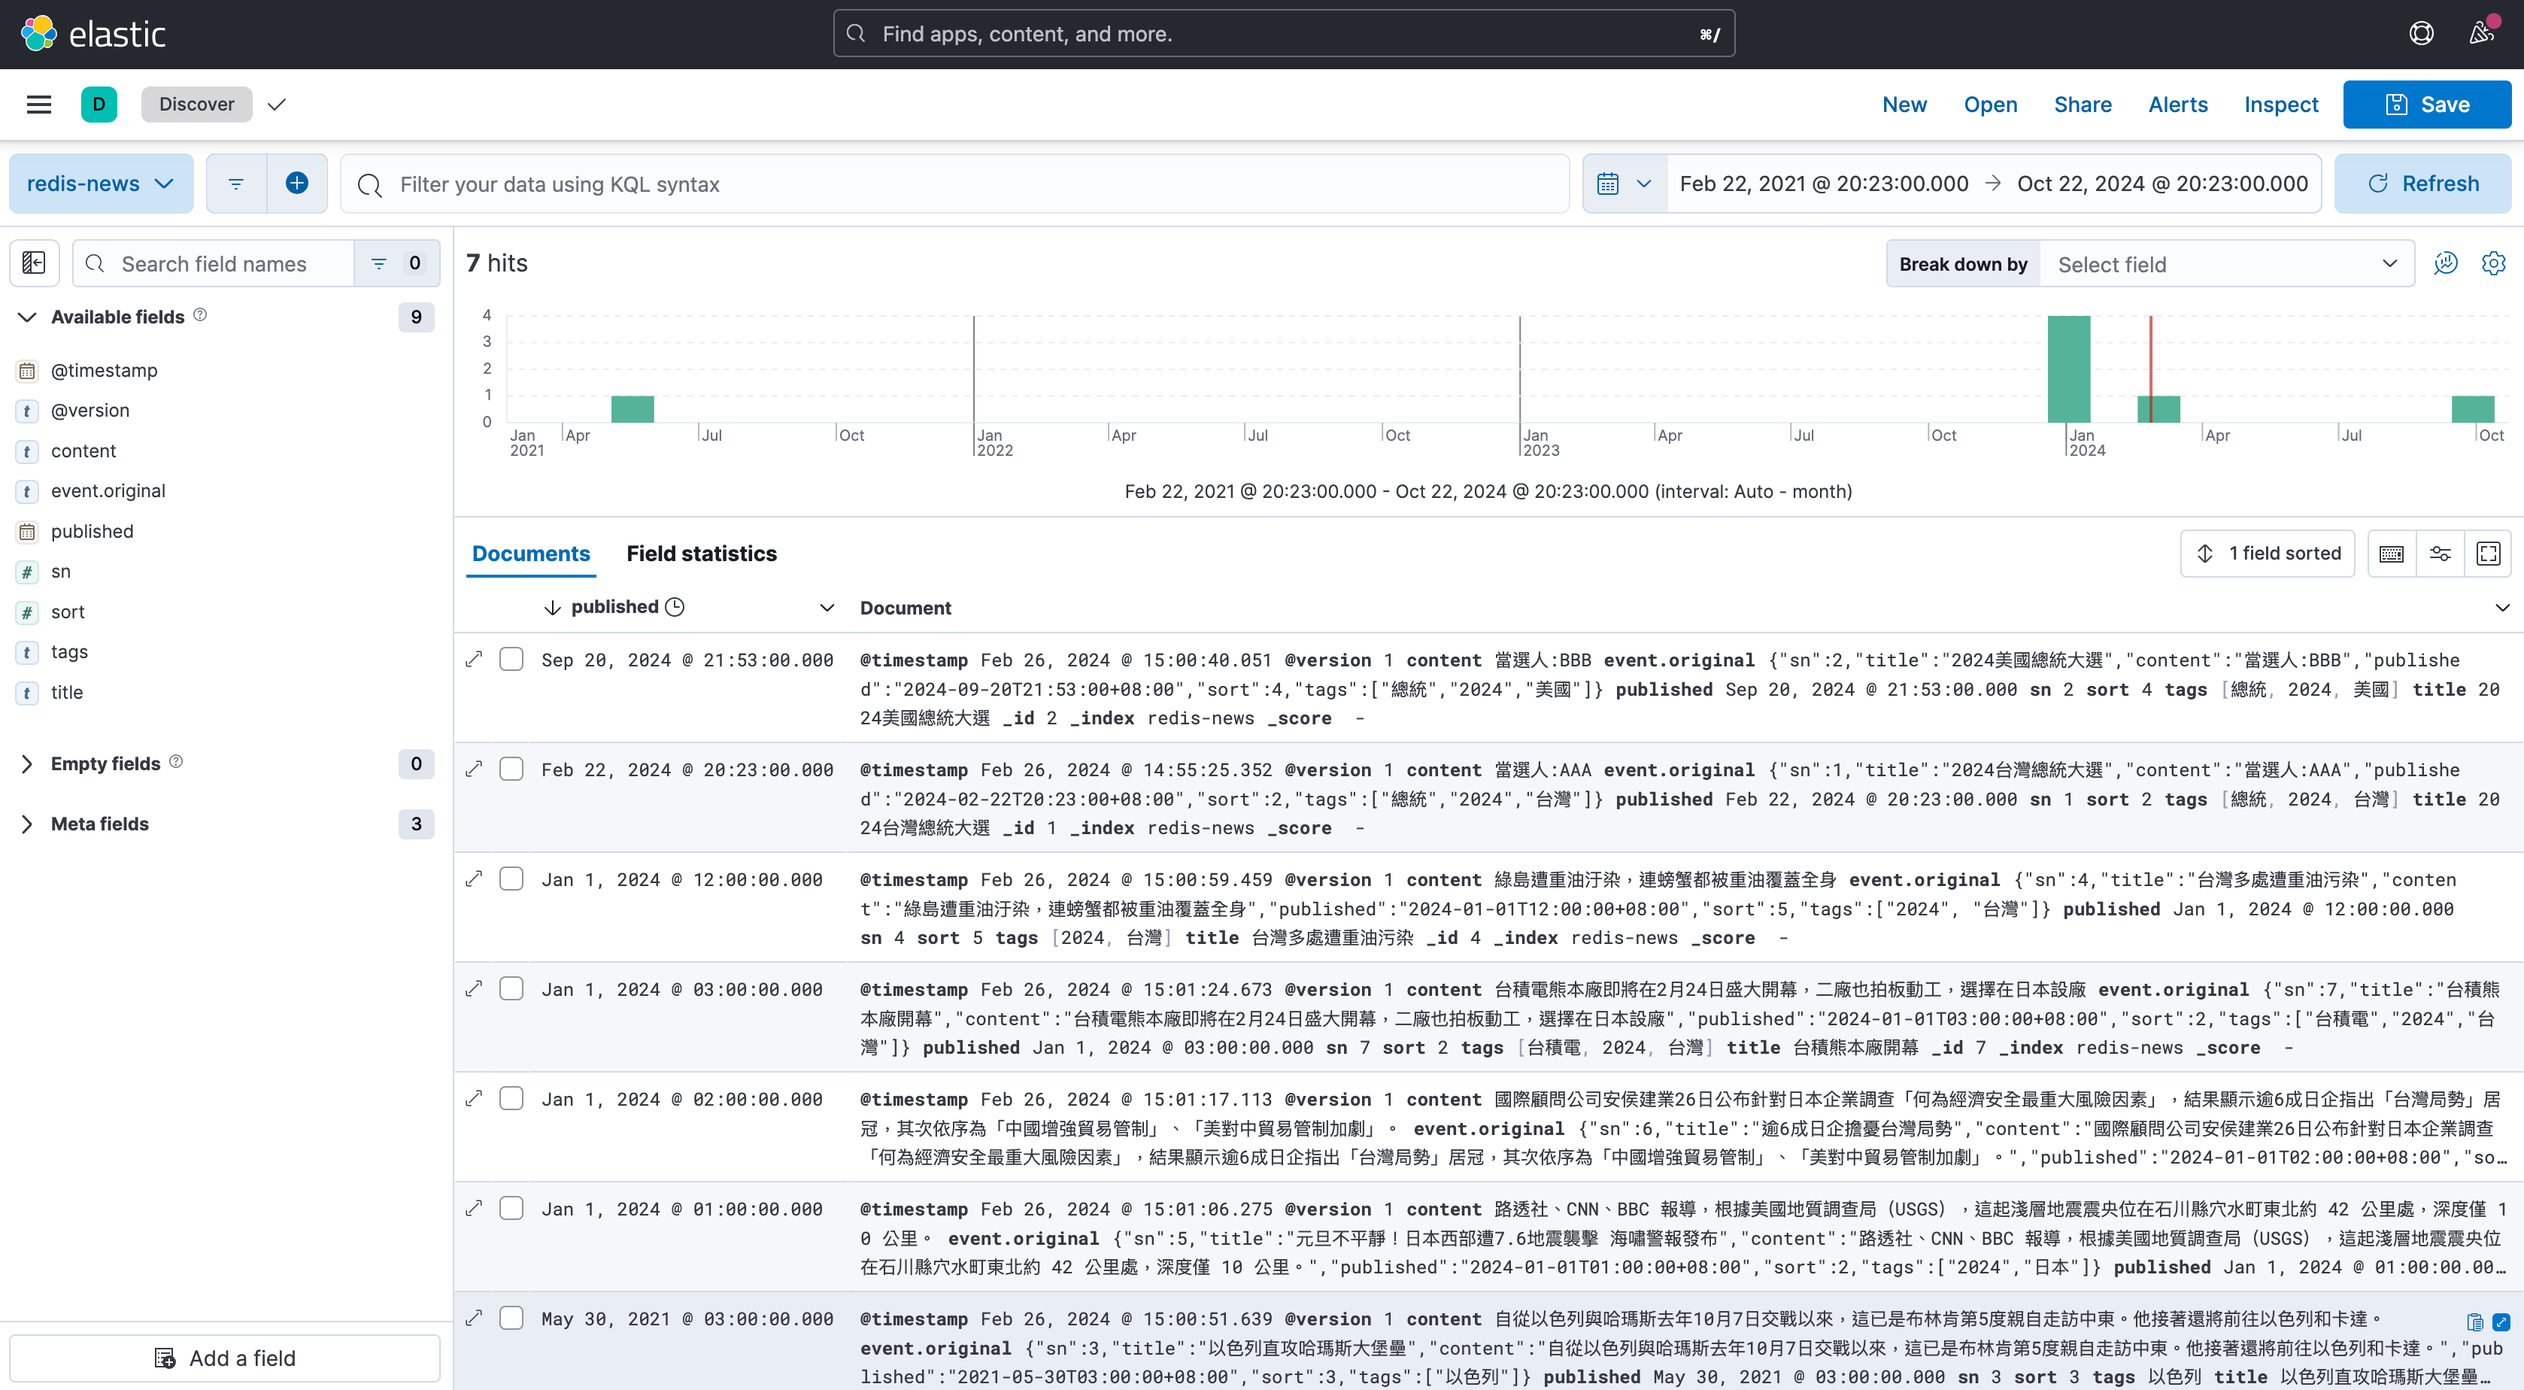
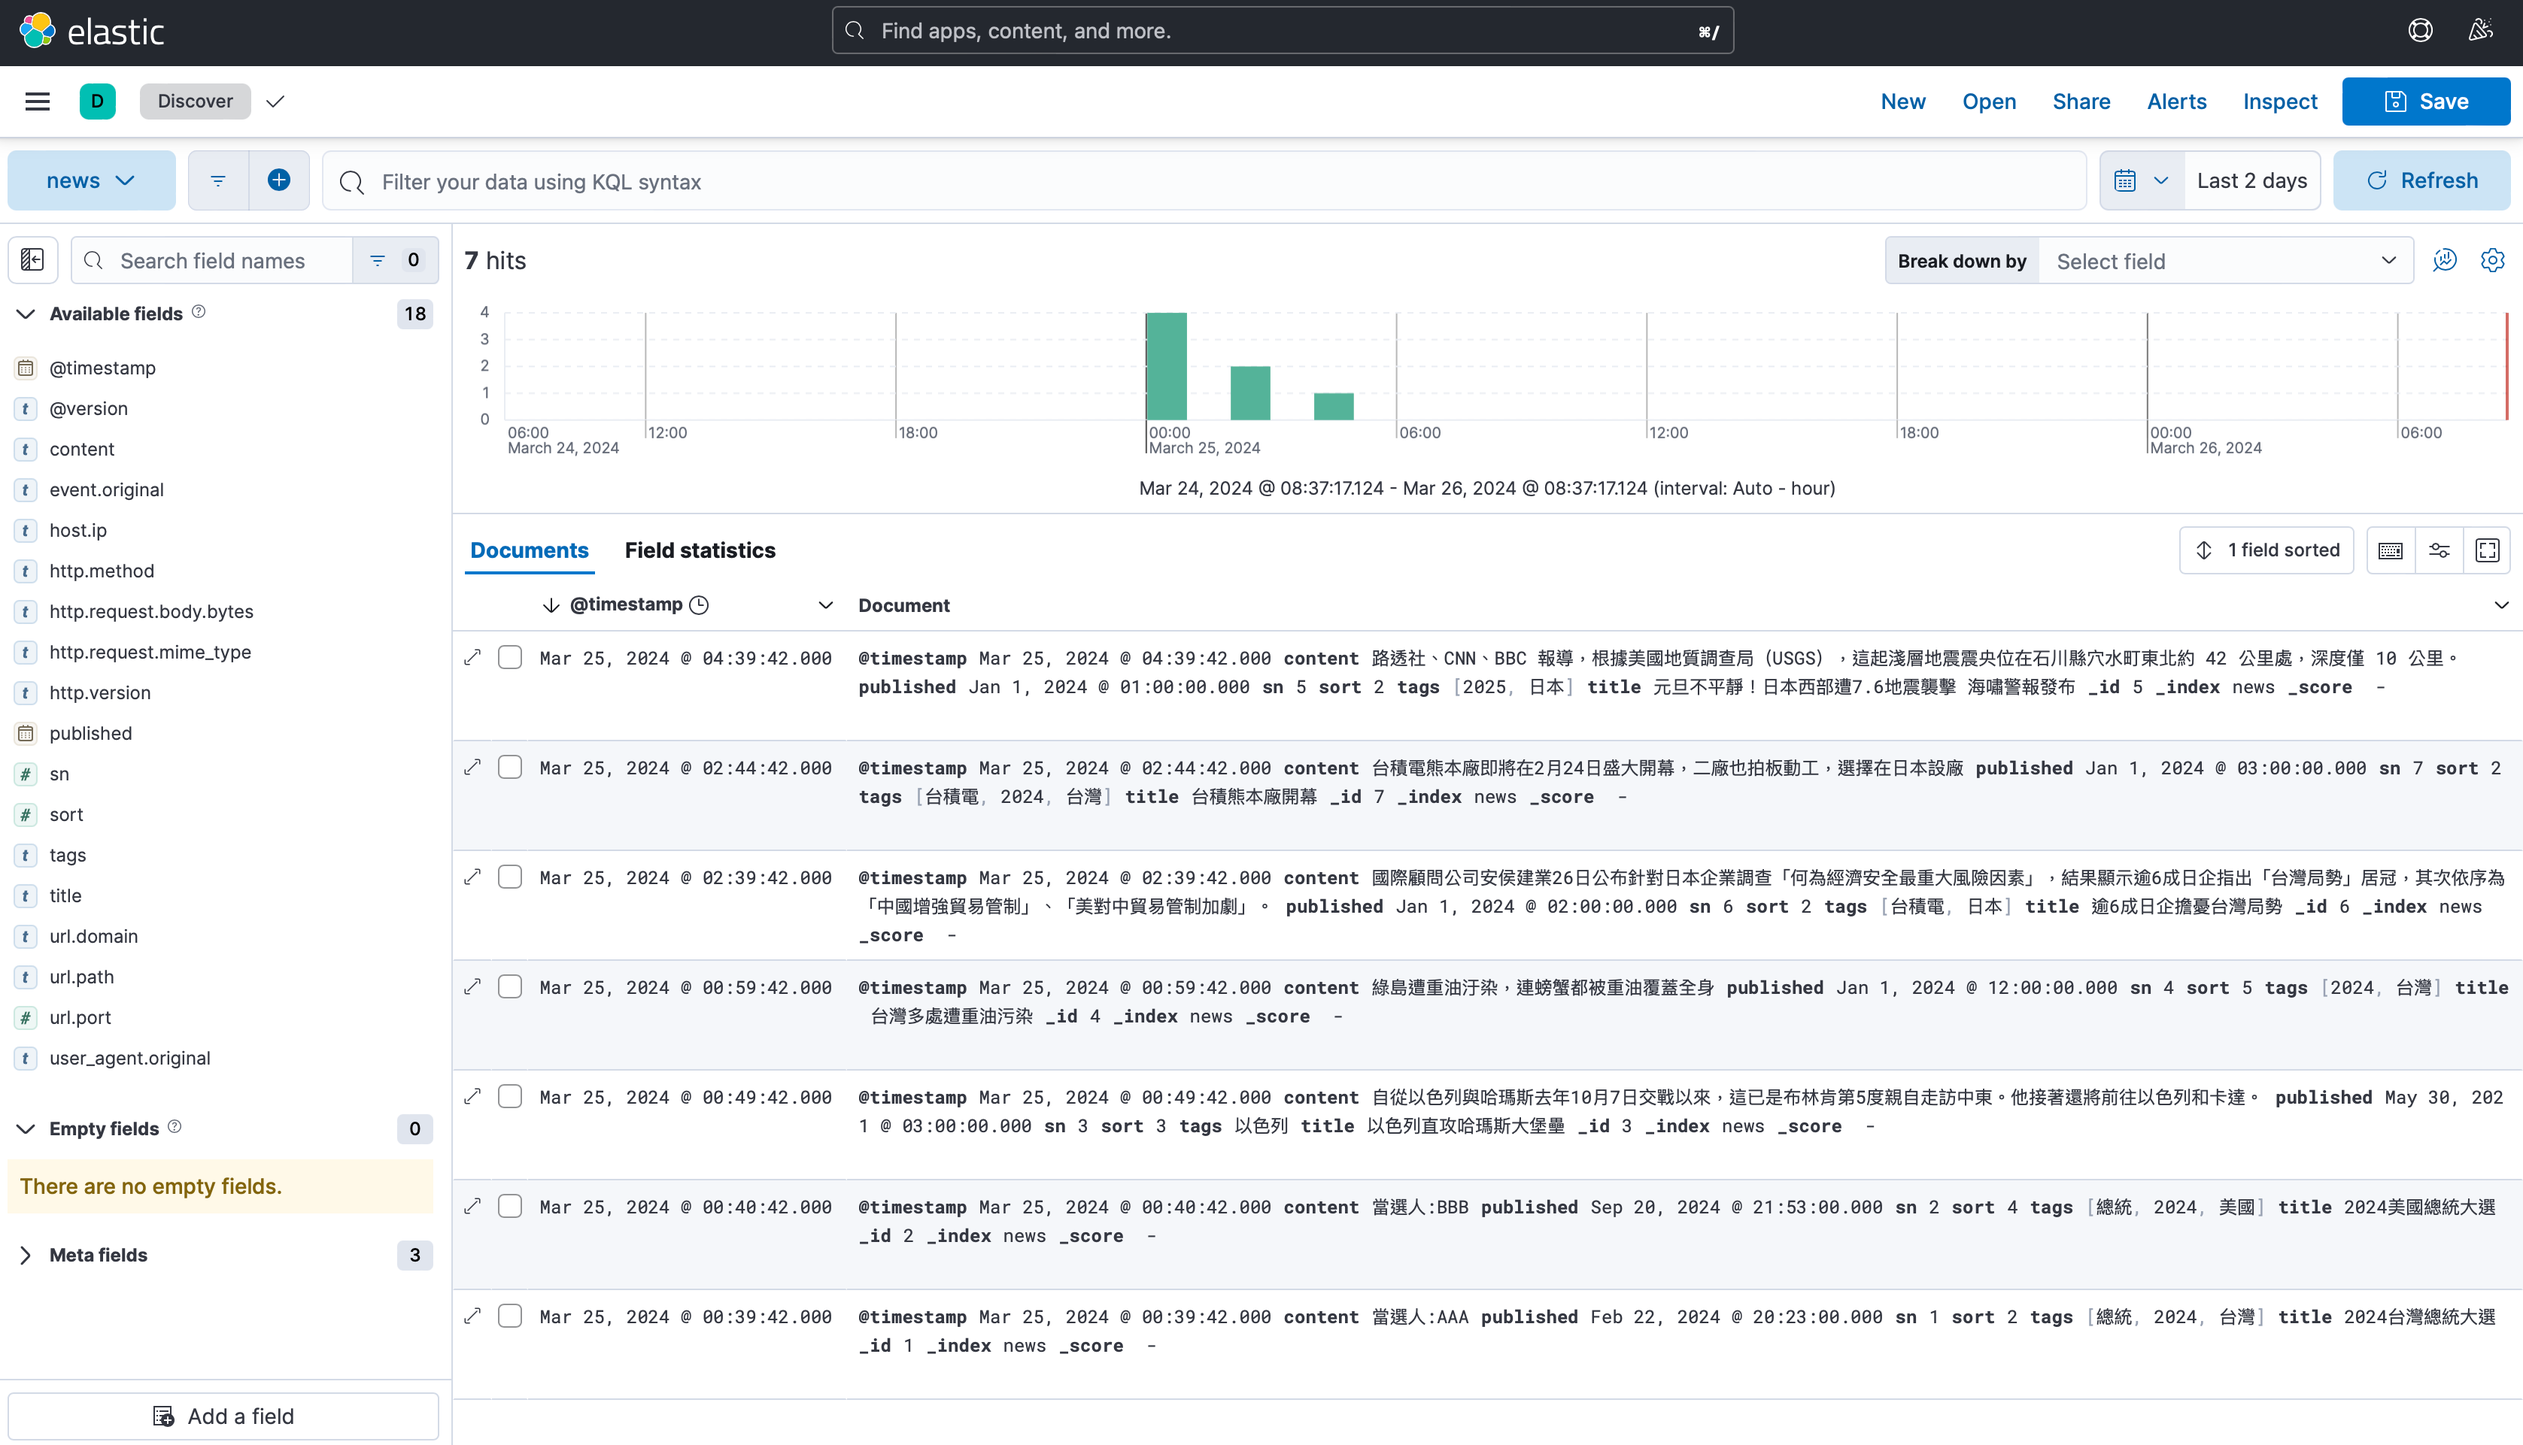
feat: remove logstash component

diff --git a/README.md b/README.md
@@ -1,7 +1,6 @@
 ## 架構說明
-1. 當api收到request後，把資料儲存到mariadb的同時，也透過http request寫入至logstash
-2. logstash 當有新資料寫入時，會先將input data 做格式化處理後，再寫入至 elasticsearch
-3. user透過elasticsearch提供的api，輸入查詢條件，得到特地的資料
+1. 當api收到request後，把資料儲存到mariadb的同時，也透過http request寫入至es
+2. user透過elasticsearch提供的api，輸入查詢條件，得到特定的資料
 
 ## 1. Install prerequisite
 ### docker
@@ -30,48 +29,44 @@ sudo apt install docker-ce
 sudo systemctl status docker
 ```
 
-## 2. Install elk
+## 2. Install es + kibana
 + bootstrap: `docker compose up -d`
-+ elasticsearch: http://localhost:9200
++ es: http://localhost:9200
 + kibana: http://localhost:5601
-+ logstash: http://localhost:8383
 
-### delete elasticsearch index
+### delete es index
 ```bash
 curl --request DELETE \
   --url http://localhost:9200/news
 ```
 
-### uninstall elk
+### uninstall es + kibana
 > 注意：所有資料將被刪除
 
 ```bash
 docker compose down -v
 ```
 
-## 3. Restart service
-> scenario: after config changed
-
-+ stop: `docker compose stop logstash`
-+ start: `docker compose start logstash`
-
-## 4. Insert into logstash
-+ basic token: `base64encode('$username:$password')`
-
-
+## 3. Insert into es
 ```bash
 curl --request POST \
-  --url http://localhost:8383 \
-  --header 'Authorization: Basic bXl1c2VyOjEyMzQ1NDMyMQ==' \
+  --url http://localhost:9200/news/_doc/3 \
   --header 'Content-Type: application/json' \
-  --data '{"sn":7,"title":"台積熊本廠開幕","content":"台積電熊本廠即將在2月24日盛大開幕，二廠也拍板動工，選擇在日本設廠","published":"2024-01-01T03:00:00+08:00","sort":2,"tags":["台積電","2024","台灣"]}'
+  --data '{
+  "sn": 3,
+  "title": "台積熊本廠開幕",
+  "content": "台積電熊本廠即將在2月24日盛大開幕，二廠也拍板動工，選擇在日本設廠",
+  "published": "2024-01-01T03:00:00+08:00",
+  "@timestamp": "2024-03-27T00:39:42+08:00",
+  "sort": 2,
+  "tags": [
+    "2025",
+    "台積電",
+    "台灣"
+  ]
+}'
 ```
-
-### how to watch logstash
-```bash
-docker logs -f logstash
-```
-
+> ps： url path 要加入id (也就是"sn")
 ### data structure
 ```json
 {
@@ -79,6 +74,7 @@ docker logs -f logstash
   "title": "台積熊本廠開幕",
   "content": "台積電熊本廠即將在2月24日盛大開幕，二廠也拍板動工，選擇在日本設廠",
   "published": "2024-01-01T03:00:00+08:00",
+  "@timestamp": "2024-03-25T00:39:42+08:00",
   "sort": 2,
   "tags": [
     "2024",
@@ -87,15 +83,17 @@ docker logs -f logstash
   ]
 }
 ```
-## 5. "Discovery" of kibana
-![Diagram outlining the hierarchical organization of the LangChain framework, displaying the interconnected parts across multiple layers.](images/discovery.png "LangChain Architecture Overview")
+> ps: "@timestamp" 為資料實際異動的時間點
+## 4. "Discovery" of kibana
+![discovery.png](images/discovery.png "Discovery of kibana")
 
-## 6. "Dev Tools" of kibana
+## 5. "Dev Tools" of kibana
 ![dev-tools.png](images/dev-tools.png)
 
 + `size`: 回傳資料的筆數限制
 + `from`: 回傳資料的起始位置
 + `query.bool.filter[0].range`: 表示時間區間
++ `query.bool.minimum_should_match`: 表示 `or` condition 至少要有一組 match
 + `query.bool.should`: 表示 `or` condition
 + `sort[0].sort`: 表示以 `sort` 欄位做排序
 
@@ -116,6 +114,7 @@ GET news/_search
           }
         }
       ],
+      "minimum_should_match": 1,
       "should": [
         {
           "wildcard": {
@@ -151,7 +150,7 @@ GET news/_search
 }
 ```
 
-## 7. elasticsearch api
+## 6. elasticsearch api
 ### request
 ```bash
 curl --request GET \
@@ -172,6 +171,7 @@ curl --request GET \
           }
         }
       ],
+      "minimum_should_match": 1,
       "should": [
         {
           "wildcard": {
@@ -218,25 +218,25 @@ curl --request GET \
 + `hits.hits[#]._source.published`: news發布時間，資料格式為`yyyy-MM-ddTHH:mm:ss.SSSZ`
 + `hits.hits[#]._source.['@timestamp']`: 資料異動時間
 
-## 99. example data to redis
+## 99. example data to es
 ```json
-{"sn":1,"title":"2024台灣總統大選","content":"當選人:AAA","published":"2024-02-22T20:23:00+08:00","sort":2,"tags":["總統","2024","台灣"]}
+{"sn":1,"title":"2024台灣總統大選","content":"當選人:AAA","published":"2024-02-22T20:23:00+08:00","@timestamp": "2024-03-25T00:39:42+08:00","sort":2,"tags":["總統","2024","台灣"]}
 ```
 ```json
-{"sn":2,"title":"2024美國總統大選","content":"當選人:BBB","published":"2024-09-20T21:53:00+08:00","sort":4,"tags":["總統","2024","美國"]}
+{"sn":2,"title":"2024美國總統大選","content":"當選人:BBB","published":"2024-09-20T21:53:00+08:00","@timestamp": "2024-03-25T00:40:42+08:00","sort":4,"tags":["總統","2024","美國"]}
 ```
 ```json
-{"sn":3,"title":"以色列直攻哈瑪斯大堡壘","content":"自從以色列與哈瑪斯去年10月7日交戰以來，這已是布林肯第5度親自走訪中東。他接著還將前往以色列和卡達。","published":"2021-05-30T03:00:00+08:00","sort":3,"tags":["以色列"]}
+{"sn":3,"title":"以色列直攻哈瑪斯大堡壘","content":"自從以色列與哈瑪斯去年10月7日交戰以來，這已是布林肯第5度親自走訪中東。他接著還將前往以色列和卡達。","published":"2021-05-30T03:00:00+08:00","@timestamp": "2024-03-25T00:49:42+08:00","sort":3,"tags":["以色列"]}
 ```
 ```json
-{"sn":4,"title":"台灣多處遭重油污染","content":"綠島遭重油汙染，連螃蟹都被重油覆蓋全身","published":"2024-01-01T12:00:00+08:00","sort":5,"tags":["2024", "台灣"]}
+{"sn":4,"title":"台灣多處遭重油污染","content":"綠島遭重油汙染，連螃蟹都被重油覆蓋全身","published":"2024-01-01T12:00:00+08:00","@timestamp": "2024-03-25T00:59:42+08:00","sort":5,"tags":["2024", "台灣"]}
 ```
 ```json
-{"sn":5,"title":"元旦不平靜！日本西部遭7.6地震襲擊 海嘯警報發布","content":"路透社、CNN、BBC 報導，根據美國地質調查局（USGS），這起淺層地震震央位在石川縣穴水町東北約 42 公里處，深度僅 10 公里。","published":"2024-01-01T01:00:00+08:00","sort":2,"tags":["2024","日本"]}
+{"sn":5,"title":"元旦不平靜！日本西部遭7.6地震襲擊 海嘯警報發布","content":"路透社、CNN、BBC 報導，根據美國地質調查局（USGS），這起淺層地震震央位在石川縣穴水町東北約 42 公里處，深度僅 10 公里。","published":"2024-01-01T01:00:00+08:00","@timestamp": "2024-03-25T01:39:42+08:00","sort":2,"tags":["2024","日本"]}
 ```
 ```json
-{"sn":6,"title":"逾6成日企擔憂台灣局勢","content":"國際顧問公司安侯建業26日公布針對日本企業調查「何為經濟安全最重大風險因素」，結果顯示逾6成日企指出「台灣局勢」居冠，其次依序為「中國增強貿易管制」、「美對中貿易管制加劇」。","published":"2024-01-01T02:00:00+08:00","sort":2,"tags":["台積電","日本"]}
+{"sn":6,"title":"逾6成日企擔憂台灣局勢","content":"國際顧問公司安侯建業26日公布針對日本企業調查「何為經濟安全最重大風險因素」，結果顯示逾6成日企指出「台灣局勢」居冠，其次依序為「中國增強貿易管制」、「美對中貿易管制加劇」。","published":"2024-01-01T02:00:00+08:00","@timestamp": "2024-03-25T02:39:42+08:00","sort":2,"tags":["台積電","日本"]}
 ```
 ```json
-{"sn":7,"title":"台積熊本廠開幕","content":"台積電熊本廠即將在2月24日盛大開幕，二廠也拍板動工，選擇在日本設廠","published":"2024-01-01T03:00:00+08:00","sort":2,"tags":["台積電","2024","台灣"]}
+{"sn":7,"title":"台積熊本廠開幕","content":"台積電熊本廠即將在2月24日盛大開幕，二廠也拍板動工，選擇在日本設廠","published":"2024-01-01T03:00:00+08:00","@timestamp": "2024-03-25T02:44:42+08:00","sort":1,"tags":["台積電","2024","台灣"]}
 ```
